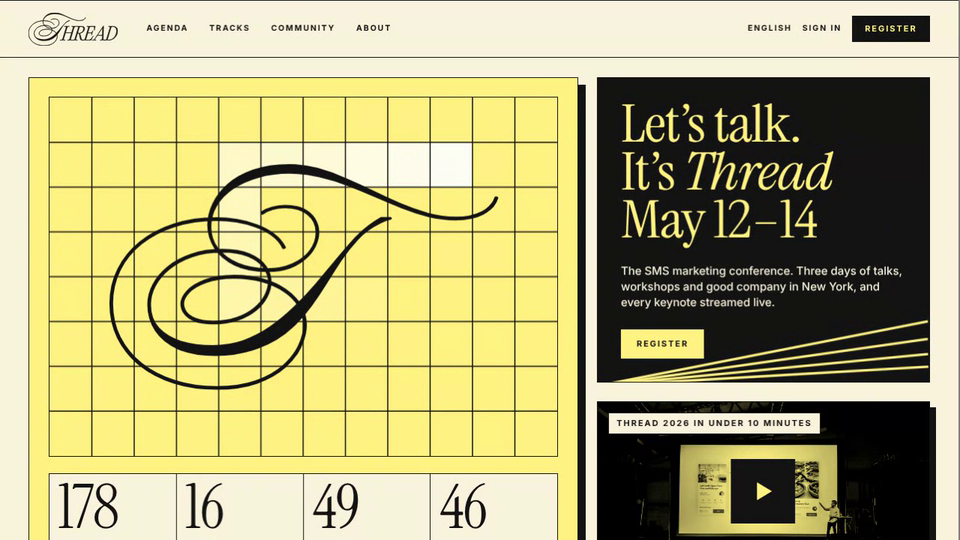
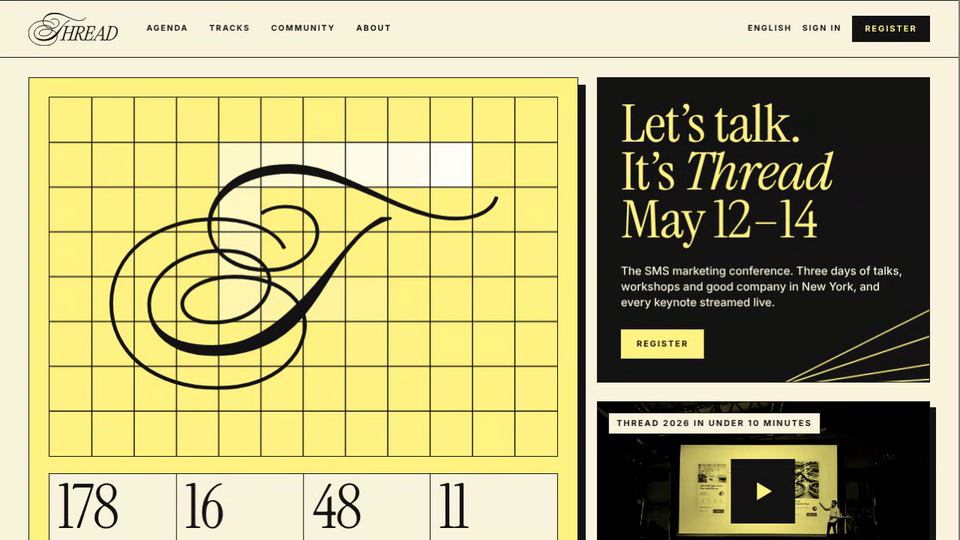
Thread Conference Landing Page: called Thread 2026, slower photo fades, stripes pushed off the right edge
Claude-Session: https://claude.ai/code/session_01AHeBe1E3DCKJgm5k1K7BVJ

Changed region(s): [[0.6562, 0.563, 0.9688, 0.7111], [0.4375, 0.8889, 0.5312, 0.9778], [0.3438, 0.8889, 0.375, 0.9778]]

diff --git a/thread-conference-landing/index.html b/thread-conference-landing/index.html
@@ -3,7 +3,7 @@
 <head>
 <meta charset="utf-8">
 <meta name="viewport" content="width=device-width, initial-scale=1">
-<title>Thread 2027 Landing Page</title>
+<title>Thread 2026 Landing Page</title>
 <link rel="preconnect" href="https://fonts.googleapis.com">
 <link href="https://fonts.googleapis.com/css2?family=Instrument+Serif:ital@0;1&family=Pinyon+Script&family=Inter:wght@400;500;600;700&display=swap" rel="stylesheet">
 <style>
@@ -52,7 +52,7 @@ header.site .btn{padding:11px 16px}
 .dark h1{font:400 clamp(44px,5.4vw,86px)/.92 var(--serif)}
 .dark h1 em{font-style:italic}
 .dark p{font-size:15px;max-width:26em;color:var(--cream)}
-.dark .stripes{position:absolute;left:0;right:0;bottom:-6px;width:100%;height:auto;pointer-events:none;z-index:0}
+.dark .stripes{position:absolute;right:-34px;bottom:-10px;width:55%;height:auto;pointer-events:none;z-index:0}
 .dark>:not(.stripes){position:relative;z-index:1}
 .dark .stripes path{transform-box:view-box;transform-origin:0 120px;animation:sweep 4.8s var(--ease) infinite}
 .dark .stripes path:nth-child(2){animation-delay:.28s}.dark .stripes path:nth-child(3){animation-delay:.56s}.dark .stripes path:nth-child(4){animation-delay:.84s}
@@ -73,11 +73,11 @@ header.site .btn{padding:11px 16px}
 .live .more{display:inline-block;margin-top:20px}
 .sess{display:grid;grid-template-columns:1fr 1fr;gap:clamp(16px,2.4vw,32px)}
 .ses .pic{aspect-ratio:16/10;border:1.5px solid var(--ink);box-shadow:8px 8px 0 var(--ink);background:var(--yellow);overflow:hidden}
-.ses img{display:block;width:100%;height:100%;object-fit:cover;object-position:50% 28%;filter:grayscale(1) contrast(1.35);mix-blend-mode:multiply;transition:clip-path .7s var(--ease)}
-.ses .tm,.ses h3,.ses .who,.ses .acts{transition:opacity .3s var(--ease),transform .3s var(--ease)}
-.ses.out img{clip-path:inset(0 0 0 100%)}
+.ses img{display:block;width:100%;height:100%;object-fit:cover;object-position:50% 28%;filter:grayscale(1) contrast(1.35);mix-blend-mode:multiply;transition:opacity 1.3s var(--ease)}
+.ses .tm,.ses h3,.ses .who,.ses .acts{transition:opacity .9s var(--ease),transform .9s var(--ease)}
+.ses.out img{opacity:0}
 .ses.out .tm,.ses.out h3,.ses.out .who,.ses.out .acts{opacity:0;transform:translateY(8px)}
-.ses.pre img{clip-path:inset(0 100% 0 0);transition:none}
+.ses.pre img{opacity:0;transition:none}
 .ses.pre .tm,.ses.pre h3,.ses.pre .who,.ses.pre .acts{opacity:0;transform:translateY(-8px);transition:none}
 .ses .who{margin-top:8px;font-size:14px;opacity:.85;min-height:1.4em}
 .ses .tm{margin:22px 0 8px}
@@ -138,19 +138,19 @@ footer .r{margin-left:auto;display:flex;gap:16px}
 </style>
 </head>
 <body>
-<nav class="back" aria-label="Sandbox"><a href="../">Sandbox</a><span>/</span><a href="../">Back to all projects</a><span>/</span><b>Thread 2027 Landing Page</b></nav>
+<nav class="back" aria-label="Sandbox"><a href="../">Sandbox</a><span>/</span><a href="../">Back to all projects</a><span>/</span><b>Thread 2026 Landing Page</b></nav>
 
 <header class="site">
-  <a class="logo" href="#top" aria-label="Thread 2027"><svg class="wm" viewBox="673 5 2485 918" role="img" aria-hidden="true"></svg></a>
+  <a class="logo" href="#top" aria-label="Thread 2026"><svg class="wm" viewBox="673 5 2485 918" role="img" aria-hidden="true"></svg></a>
   <div class="links"><a href="#agenda">Agenda</a><a href="#tracks">Tracks</a><a href="#community">Community</a><a href="#about">About</a></div>
   <div class="r"><a class="t" href="#">English</a><a class="t" href="#">Sign in</a><a class="btn" href="#register">Register</a></div>
 </header>
 
 <main id="top">
 <section class="hero">
-  <div class="frame" aria-label="Countdown to Thread 2027">
+  <div class="frame" aria-label="Countdown to Thread 2026">
     <div class="art"><canvas id="bg" aria-hidden="true"></canvas><svg class="sw" viewBox="653 -15 1627 958" role="img" aria-label="Thread"></svg></div>
-    <div class="count" id="count" role="timer" aria-label="Time until Thread 2027 begins">
+    <div class="count" id="count" role="timer" aria-label="Time until Thread 2026 begins">
       <div><b data-u="d">00</b><span>Days</span></div><div><b data-u="h">00</b><span>Hours</span></div>
       <div><b data-u="m">00</b><span>Minutes</span></div><div><b data-u="s">00</b><span>Seconds</span></div>
     </div>
@@ -159,7 +159,7 @@ footer .r{margin-left:auto;display:flex;gap:16px}
     <div class="dark" id="register">
       <h1><span class="wide">Let’s talk.<br>It’s <em>Thread</em><br>May 12–14</span></h1>
       <p>The SMS marketing conference. Three days of talks, workshops and good company in New York, and every keynote streamed live.</p>
-      <svg class="stripes" viewBox="0 0 200 120" fill="none" stroke="#fff383" stroke-width="1.5" aria-hidden="true"><path d="M0 120 200 84"/><path d="M0 120 200 96"/><path d="M0 120 200 106"/><path d="M0 120 200 114"/></svg>
+      <svg class="stripes" viewBox="0 0 200 120" overflow="visible" fill="none" stroke="#fff383" stroke-width="1.5" aria-hidden="true"><path d="M0 120 260 -6"/><path d="M0 120 260 39"/><path d="M0 120 260 86"/><path d="M0 120 260 111"/></svg>
       <a class="btn y" href="#register">Register</a>
     </div>
     <a class="trailer" href="#about" aria-label="Watch Thread 2026 in under 10 minutes">
@@ -200,8 +200,8 @@ footer .r{margin-left:auto;display:flex;gap:16px}
 </main>
 
 <footer>
-  <svg class="wm" viewBox="673 5 2485 918" aria-label="Thread 2027"></svg>
-  <a href="#">Thread 2027</a><a href="#">Privacy &amp; terms</a><a href="#">Code of conduct</a><a href="#">FAQ</a>
+  <svg class="wm" viewBox="673 5 2485 918" aria-label="Thread 2026"></svg>
+  <a href="#">Thread 2026</a><a href="#">Privacy &amp; terms</a><a href="#">Code of conduct</a><a href="#">FAQ</a>
   <div class="r"><a href="#">LinkedIn</a><a href="#">Instagram</a><a href="#">YouTube</a></div>
 </footer>
 
@@ -211,7 +211,7 @@ const LOGO_SWASH='M1297.63 203.139L1295.37 199.379C1306.9 191.357 1320.94 185.09
 const sp=d=>'<path d="'+d+'" fill="currentColor" stroke="currentColor" stroke-width="10.5" stroke-linejoin="round"/>';
 document.querySelectorAll('svg.wm').forEach(s=>s.innerHTML=sp(LOGO_SWASH)+sp(LOGO_WORD));
 document.querySelectorAll('svg.sw').forEach(s=>s.innerHTML=sp(LOGO_SWASH));
-/* countdown to Thread 2027: May 12, 2027, 9:00 ET */
+/* countdown to Thread 2026: May 12, 2027, 9:00 ET */
 const EV=Date.UTC(2027,4,12,13),cnt=document.getElementById('count'),pad=v=>String(v).padStart(2,'0');
 function tick(){let s=Math.max(0,Math.floor((EV-Date.now())/1000));const v={d:Math.floor(s/86400),h:Math.floor(s%86400/3600),m:Math.floor(s%3600/60),s:s%60};
  for(const k in v)cnt.querySelector('[data-u='+k+']').textContent=pad(v[k])}
@@ -252,7 +252,7 @@ tick();setInterval(tick,1000);
   S.forEach((pts,i)=>{if(reduce){stroke(pts,0,1,sc,0);return}const u=((((t+i*.55)%PER)+PER)%PER)/PER;stroke(pts,ease((u-.72)/.26),ease(u/.4),sc,t)});
   if(!reduce)requestAnimationFrame(frame)}
  addEventListener('resize',()=>{size();if(reduce)frame(0)});size();requestAnimationFrame(frame)})();
-/* agenda: five talks cycle through the two slots, one slot after the other; each swap wipes the photo and lifts the text */
+/* agenda: five talks cycle through the two slots, one slot after the other; each swap fades the photo out and in and lifts the text */
 (()=>{const T=[
  {t:'Thread keynote',tm:'10:00 AM – 11:00 AM ET',w:'Maya Chen · VP of Growth, Northwind',i:'photos/talk1.jpg',p:'50% 22%'},
  {t:'Marketer keynote',tm:'11:00 AM – 12:00 PM ET',w:'Elias Brandt · Founder, Brandt &amp; Co',i:'photos/talk2.jpg',p:'50% 30%'},
@@ -266,12 +266,12 @@ tick();setInterval(tick,1000);
   const b=el.querySelector('.sv'),on=saved.has(n);b.setAttribute('aria-pressed',on);b.textContent=on?'Saved ✓':'Save to My Thread'}
  slots.forEach((el,k)=>{fill(el,idx[k]);el.querySelector('.sv').addEventListener('click',e=>{const n=+el.dataset.n,on=!saved.has(n);on?saved.add(n):saved.delete(n);e.currentTarget.setAttribute('aria-pressed',on);e.currentTarget.textContent=on?'Saved ✓':'Save to My Thread'})});
  function swap(k){const el=slots[k];idx[k]=(idx[k]+2)%T.length;el.classList.add('out');
-  setTimeout(()=>{fill(el,idx[k]);el.classList.remove('out');el.classList.add('pre');void el.offsetWidth;el.classList.remove('pre')},750)}
+  setTimeout(()=>{fill(el,idx[k]);el.classList.remove('out');el.classList.add('pre');void el.offsetWidth;el.classList.remove('pre')},1400)}
  if(reduce)return;const sec=document.getElementById('sess');sec.addEventListener('pointerenter',()=>paused=true);sec.addEventListener('pointerleave',()=>paused=false);sec.addEventListener('focusin',()=>paused=true);sec.addEventListener('focusout',()=>paused=false);
- let step=0;setInterval(()=>{if(paused||document.hidden)return;swap(step%2);step++},2600);
+ let step=0;setInterval(()=>{if(paused||document.hidden)return;swap(step%2);step++},3800);
 })();
 /* ticker */
-const w=['Thread 2027','May 12–14','New York','The SMS marketing conference'];
+const w=['Thread 2026','May 12–14','New York','The SMS marketing conference'];
 document.getElementById('tk').innerHTML=Array(16).fill(w).flat().map(t=>'<span>'+t+'</span>').join('');
 /* hairline grid behind the swash: a white block wanders cell to cell and leaves a fading trail; the cursor leaves one too */
 (()=>{const c=document.getElementById('bg'),x=c.getContext('2d'),reduce=matchMedia('(prefers-reduced-motion:reduce)').matches,N=12,FADE=1.7,STEP=.13;
